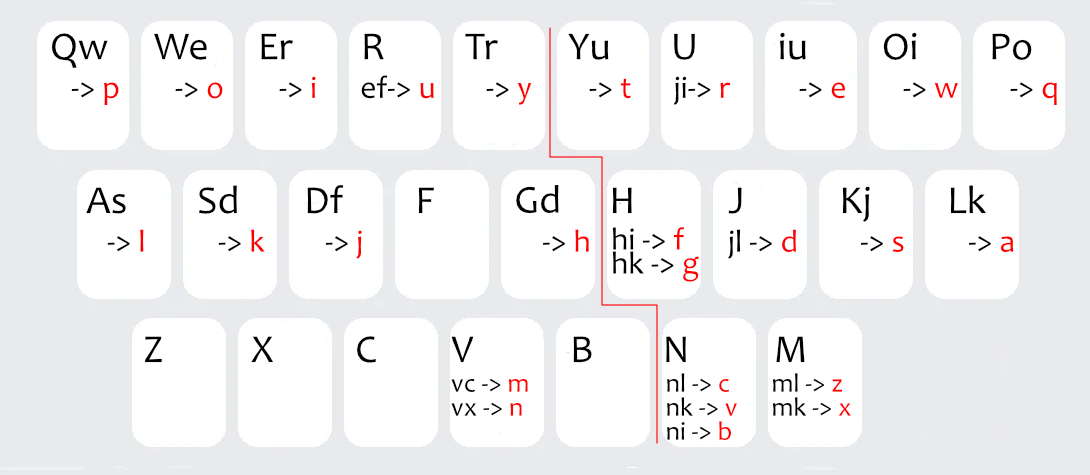
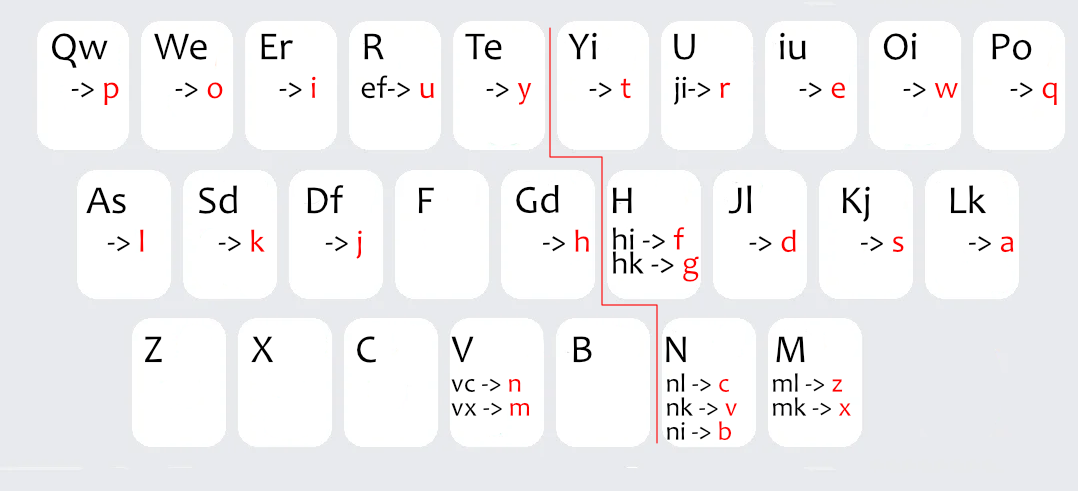
修改修改

diff --git a/README.md b/README.md
@@ -72,7 +72,7 @@ chord_composer: # 并击模块设置
 
 - 但是R和U的时候，感觉食指和中指一起按也能当作一个映射，所以就把ef映射成u，ji映射成r
 
-- 第三排的m、n放在vc、vx上
+- 第三排的m、n放在vx、vc上
 
 **关键细节**：在方案里修改映射时，使用ji还是ij的写法，需要看alphabet的排列顺序。字母顺序设计为左手字母在前，确保并击出来的字符声母在前。
 
